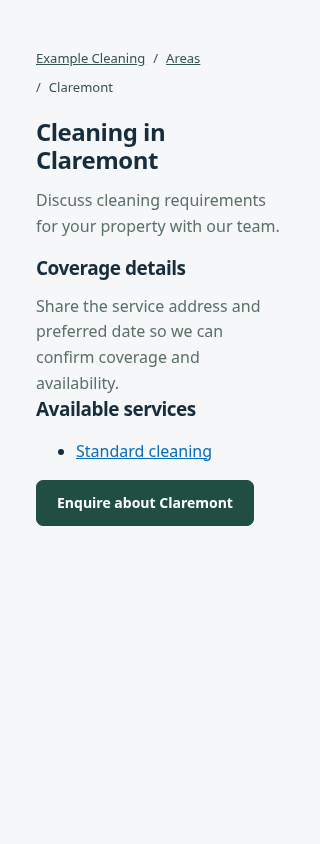
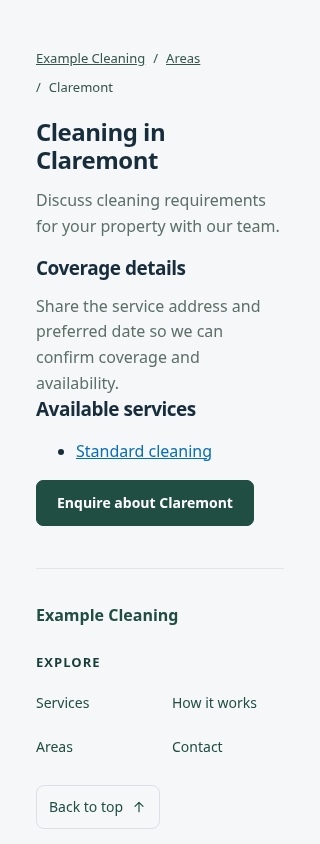
Preserve owner area service selections and clarify draft management

diff --git a/business/areas.php b/business/areas.php
@@ -6,10 +6,10 @@ function area_page_key(string $page): string {return str_starts_with($page,'area
 function area_page_find(array $p,string $name,bool $draft=false): ?array {foreach(area_pages($p,$draft) as $a)if($a['name']===$name)return $a;return null;}
 function area_pages_values(array $old): array {
  if(!isset($_POST['area_editor']))return $old['area_pages']??[];
- $rows=$_POST['area_pages']??[];if(!is_array($rows)||count($rows)>20)throw new RuntimeException('Add up to 20 area pages.');
+ $rows=$_POST['area_pages']??null;if(!is_array($rows)||count($rows)>20)throw new RuntimeException('Add up to 20 area pages.');
  $out=[];$names=[];foreach($rows as $row){if(!is_array($row))throw new RuntimeException('Check the area page.');$a=[];
  foreach(['slug'=>64,'name'=>120,'title'=>120,'introduction'=>600,'coverage'=>3000,'seo_title'=>120,'seo_description'=>300,'action'=>80] as $k=>$limit){$v=$row[$k]??'';if(!is_string($v))throw new RuntimeException('Check your area text.');$a[$k]=trim($v);business_page_text_valid($a[$k],$limit);}
- if(implode('',array_values($a))==='')continue;
+ if(implode('',array_values($a))===''&&empty($row['services'])&&!isset($row['published']))continue;
  if(!preg_match('/\A[a-z0-9]+(?:-[a-z0-9]+)*\z/',$a['slug'])||strlen($a['slug'])<2||isset($out[$a['slug']])||isset($names[$a['name']])||$a['name']==='')throw new RuntimeException('Use a unique area name and lowercase page address.');
  $a['published']=isset($row['published']);$a['services']=$row['services']??[];
  if(!is_array($a['services'])||count($a['services'])>50||count(array_unique($a['services'],SORT_REGULAR))!==count($a['services']))throw new RuntimeException('Choose valid services.');
@@ -19,13 +19,19 @@ function area_pages_values(array $old): array {
  }return $out;
 }
 function area_pages_editor(array $p,array $catalogue): void {
- echo '<details><summary>Area pages</summary><p>Write useful, original coverage details. Names must match coverage chips exactly to link them. Save and preview first. Ready to publish pages become public only when you explicitly publish the business draft. Unchecked pages stay private. This also publishes other saved business changes.</p><input type="hidden" name="area_editor" value="1">';
+ echo '<details id="area-pages"><summary>Area pages ('.count($p['area_pages']??[]).'/20)</summary><p>Write useful, original coverage details. Names must match coverage chips exactly to link them. Save and preview first. Ready to publish pages become public only when you explicitly publish the business draft. Unchecked pages stay private. This also publishes other saved business changes.</p><input type="hidden" name="area_editor" value="1">';
+ echo '<p class="muted">Keep the page address stable after publication. To withdraw a page, untick Ready to publish, save, then choose Publish saved draft. Its content stays saved privately.</p>';
  $rows=array_values($p['area_pages']??[]);if(count($rows)<20)$rows[]=[];
- foreach($rows as $i=>$a){echo '<details class="benefit-editor-card"><summary>'.esc($a['name']??'Add area page').'</summary>';
+ foreach($rows as $i=>$a){echo '<details class="benefit-editor-card"><summary>'.esc(($a['name']??'')?:'Add area page').'</summary><p class="muted">'.(!empty($a['published'])?'Ready in saved draft · publication requires Publish saved draft':'Private draft · excluded from public area links and sitemap').'</p>';
  foreach(['slug'=>['Page address',64],'name'=>['Exact coverage area name',120],'title'=>['Title',120],'introduction'=>['Introduction',600],'coverage'=>['Coverage details',3000],'seo_title'=>['SEO title',120],'seo_description'=>['SEO description',300],'action'=>['Enquiry button label',80]] as $k=>$v){$id='area-'.$i.'-'.$k;echo '<label for="'.$id.'">'.$v[0].'</label><textarea id="'.$id.'" name="area_pages['.$i.']['.$k.']" maxlength="'.$v[1].'" rows="'.($v[1]>300?3:1).'">'.esc($a[$k]??'').'</textarea>';}
- echo '<fieldset><legend>Available services</legend>';foreach($catalogue['items']??[] as $s)if(!empty($s['visible'])&&empty($s['archived']))echo '<label class="check"><input type="checkbox" name="area_pages['.$i.'][services][]" value="'.esc($s['id']).'" '.(in_array($s['id'],$a['services']??[],true)?'checked':'').'>'.esc($s['name']).'</label>';echo '</fieldset><label class="check"><input type="checkbox" name="area_pages['.$i.'][published]" '.(!empty($a['published'])?'checked':'').'>Ready to publish with business draft</label>';
+ echo '<fieldset><legend>Available services</legend>';foreach($catalogue['items']??[] as $s)if(!empty($s['visible'])&&empty($s['archived']))echo '<label class="check"><input type="checkbox" name="area_pages['.$i.'][services][]" value="'.esc($s['id']).'" '.(in_array($s['id'],$a['services']??[],true)?'checked':'').'>'.esc($s['name']).'</label>';
+ $available=array_column(array_filter($catalogue['items']??[],fn($s)=>!empty($s['visible'])&&empty($s['archived'])),'id');
+ $retained=array_values(array_diff($a['services']??[],$available));
+ foreach($retained as $id)echo '<input type="hidden" name="area_pages['.$i.'][services][]" value="'.esc($id).'">';
+ if($retained)echo '<p class="muted">'.count($retained).' unavailable service selection(s) retained. Hidden or archived services do not appear on the public page.</p>';
+ echo '</fieldset><label class="check"><input type="checkbox" name="area_pages['.$i.'][published]" '.(!empty($a['published'])?'checked':'').'>Ready to publish with business draft</label>';
  if(!empty($a['slug']))echo '<p><a href="profile.php?view=preview&amp;area='.esc($a['slug']).'">Preview saved area draft</a></p>';echo '</details>';}
- echo '</details>';
+ echo '<p class="muted">Save draft at the bottom of this form before opening a preview. Only the last saved version is previewed.</p></details>';
 }
 function area_page_render(array $p,array $a,array $catalogue,string $root,bool $draft=false): void {
  echo '<div class="business-home business-standalone'.esc(business_style_classes($p)).'" id="homepage" tabindex="-1"><nav class="home-breadcrumbs" aria-label="Breadcrumb"><ol><li><a href="'.esc($draft?'profile.php?view=preview':$root).'">'.esc($p['name']).'</a></li><li><a href="'.esc($draft?'profile.php?view=preview&section=areas':$root.'/areas').'">Areas</a></li><li aria-current="page">'.esc($a['name']).'</li></ol></nav><article class="home-page-intro"><h1>'.esc($a['title']?:$a['name']).'</h1><p class="home-intro">'.nl2br(esc($a['introduction'])).'</p><h2>Coverage details</h2><div class="home-page-body">'.nl2br(esc($a['coverage'])).'</div><h2>Available services</h2><ul>';

diff --git a/tests/area-editor.php b/tests/area-editor.php
@@ -1,0 +1,20 @@
+<?php
+// Parser and editor preservation regression; no hosted records or outbound requests.
+require __DIR__.'/../account/core.php';
+require __DIR__.'/../account/profile-core.php';
+require __DIR__.'/../business/homepage.php';
+function check(bool $ok,string $message): void {if(!$ok)throw new RuntimeException($message);}
+$a=['slug'=>'test-area','name'=>'Test area','title'=>'Test','introduction'=>'Intro','coverage'=>'Coverage','seo_title'=>'','seo_description'=>'','action'=>'Ask','published'=>false,'services'=>[str_repeat('a',32),str_repeat('b',32),str_repeat('c',32)]];
+$p=['area_pages'=>['test-area'=>$a]];
+$catalogue=['items'=>[['id'=>str_repeat('a',32),'name'=>'Visible','visible'=>true,'archived'=>false],['id'=>str_repeat('b',32),'name'=>'Hidden','visible'=>false,'archived'=>false],['id'=>str_repeat('c',32),'name'=>'Archived','visible'=>true,'archived'=>true]]];
+ob_start();area_pages_editor($p,$catalogue);$html=ob_get_clean();
+check(substr_count($html,'type="hidden" name="area_pages[0][services][]"')===2,'Unavailable selections retained');
+check(!str_contains($html,'>Hidden</label>')&&!str_contains($html,'>Archived</label>'),'Unavailable service labels not offered');
+check(str_contains($html,'Private draft')&&str_contains($html,'Publish saved draft'),'Publication boundary explained');
+$_POST=[];check(area_pages_values($p)===$p['area_pages'],'Unrelated saves retain areas');
+$_POST=['area_editor'=>'1','area_pages'=>[$a]];check(area_pages_values($p)['test-area']['services']===$a['services'],'Selections survive save');
+foreach([['area_editor'=>'1'],['area_editor'=>'1','area_pages'=>'bad'],['area_editor'=>'1','area_pages'=>[['published'=>'on']]],['area_editor'=>'1','area_pages'=>[['services'=>[str_repeat('a',32)]]]]] as $bad){
+ $_POST=$bad;$rejected=false;try{area_pages_values($p);}catch(RuntimeException $e){$rejected=true;}check($rejected,'Malformed submission rejected');
+}
+$_POST=['area_editor'=>'1','area_pages'=>[[]]];check(area_pages_values($p)===[],'Blank add row ignored');
+echo "PASS area editor: unavailable service preservation, draft guidance, malformed payload rejection and blank rows\n";

diff --git a/docs/area-pages-preview.md b/docs/area-pages-preview.md
@@ -29,3 +29,15 @@ Hosted private editor returned an expired-account error. Preview sign-in page le
 ## Signed-in hosted verification
 
 Owner renewed preview sign-in. Confirmed current account is FaraiOS Preview Test Business and opened its existing Bright & Co demo Profile. Expanded Area pages → Add area page. Verified address, exact coverage name, title, introduction, coverage details, SEO title/description, enquiry label, three business-specific service checkboxes and unchecked Ready to publish control. Publication explanation explicitly states that other saved business changes publish together. No fields changed, forms submitted, records created or publications made. Editor left open for owner review. Hosted editor-inspection blocker resolved; persistence/publication/isolation remain proven by native disposable tests. PASS hosted editor inspection. Production remains gated by explicit owner authorization; Shalean is unchanged.
+
+## Business owner tools audit — 14 November 2026
+
+Baseline main bb2efc8b0df03b72181955b1c82fafc2afac67b1 (footer PR #32). Read benefit-cards-preview.md and this document, then audited Profile, business/areas.php, public routing, SEO/sitemap helpers and the existing publication migration. Requirements 1–5 are implemented already; extend the existing editor rather than create a second area store or publishing mechanism. Publication remains a whole-business saved-draft action, explicitly explained in the editor. No per-area publication RPC is introduced.
+
+Two preservation fixes: retain hidden/archived/missing service IDs in the editor's submitted selection so an unrelated text edit does not silently discard them; those services remain excluded from public rendering. Reject a missing/malformed area payload and blank rows carrying publication/service selections instead of treating them as empty content. Truly blank add rows remain ignored. Clarify page count, private/ready draft state, stable URLs, save-before-preview and the withdrawal sequence.
+
+PASS isolated native PostgreSQL/PHP area lifecycle (save/reload, private draft, publish, public links/metadata/breadcrumbs/sitemap, withdrawal, malformed SQL documents and cross-owner denial). PASS PHP editor regression for unavailable selections, malformed form payloads and blank rows. PASS five-test existing homepage/profile/security/logo suite. PASS Chromium area layout at 1280/390/320 including public-only services, enquiry link and no horizontal overflow. Evidence images are synthetic Example Cleaning fixtures, not hosted business content.
+
+Priority draft preparation remains conditional on verified local content. Existing evidence identifies eight candidate names (above), but does not substantiate distinct local coverage/service claims. No 5–10 generic or invented drafts created. No hosted data writes, profile saves/publications, migrations, booking flow changes, intake activation or email changes performed in this task.
+
+Hosted accounts-preview Profile currently redirects to sign-in. Updated branch deployment and signed-in hosted acceptance are PENDING. Automatic approval review rejected opening the signed-in Plesk hosting origin because its controls include production state; no alternative access path attempted. Owner authorization for the preview-only Plesk operation is required before resuming that blocked step. Production merge/deployment remains outside this task's authorization. CONDITIONAL PASS for prepared changes; hosted preview gate incomplete.
